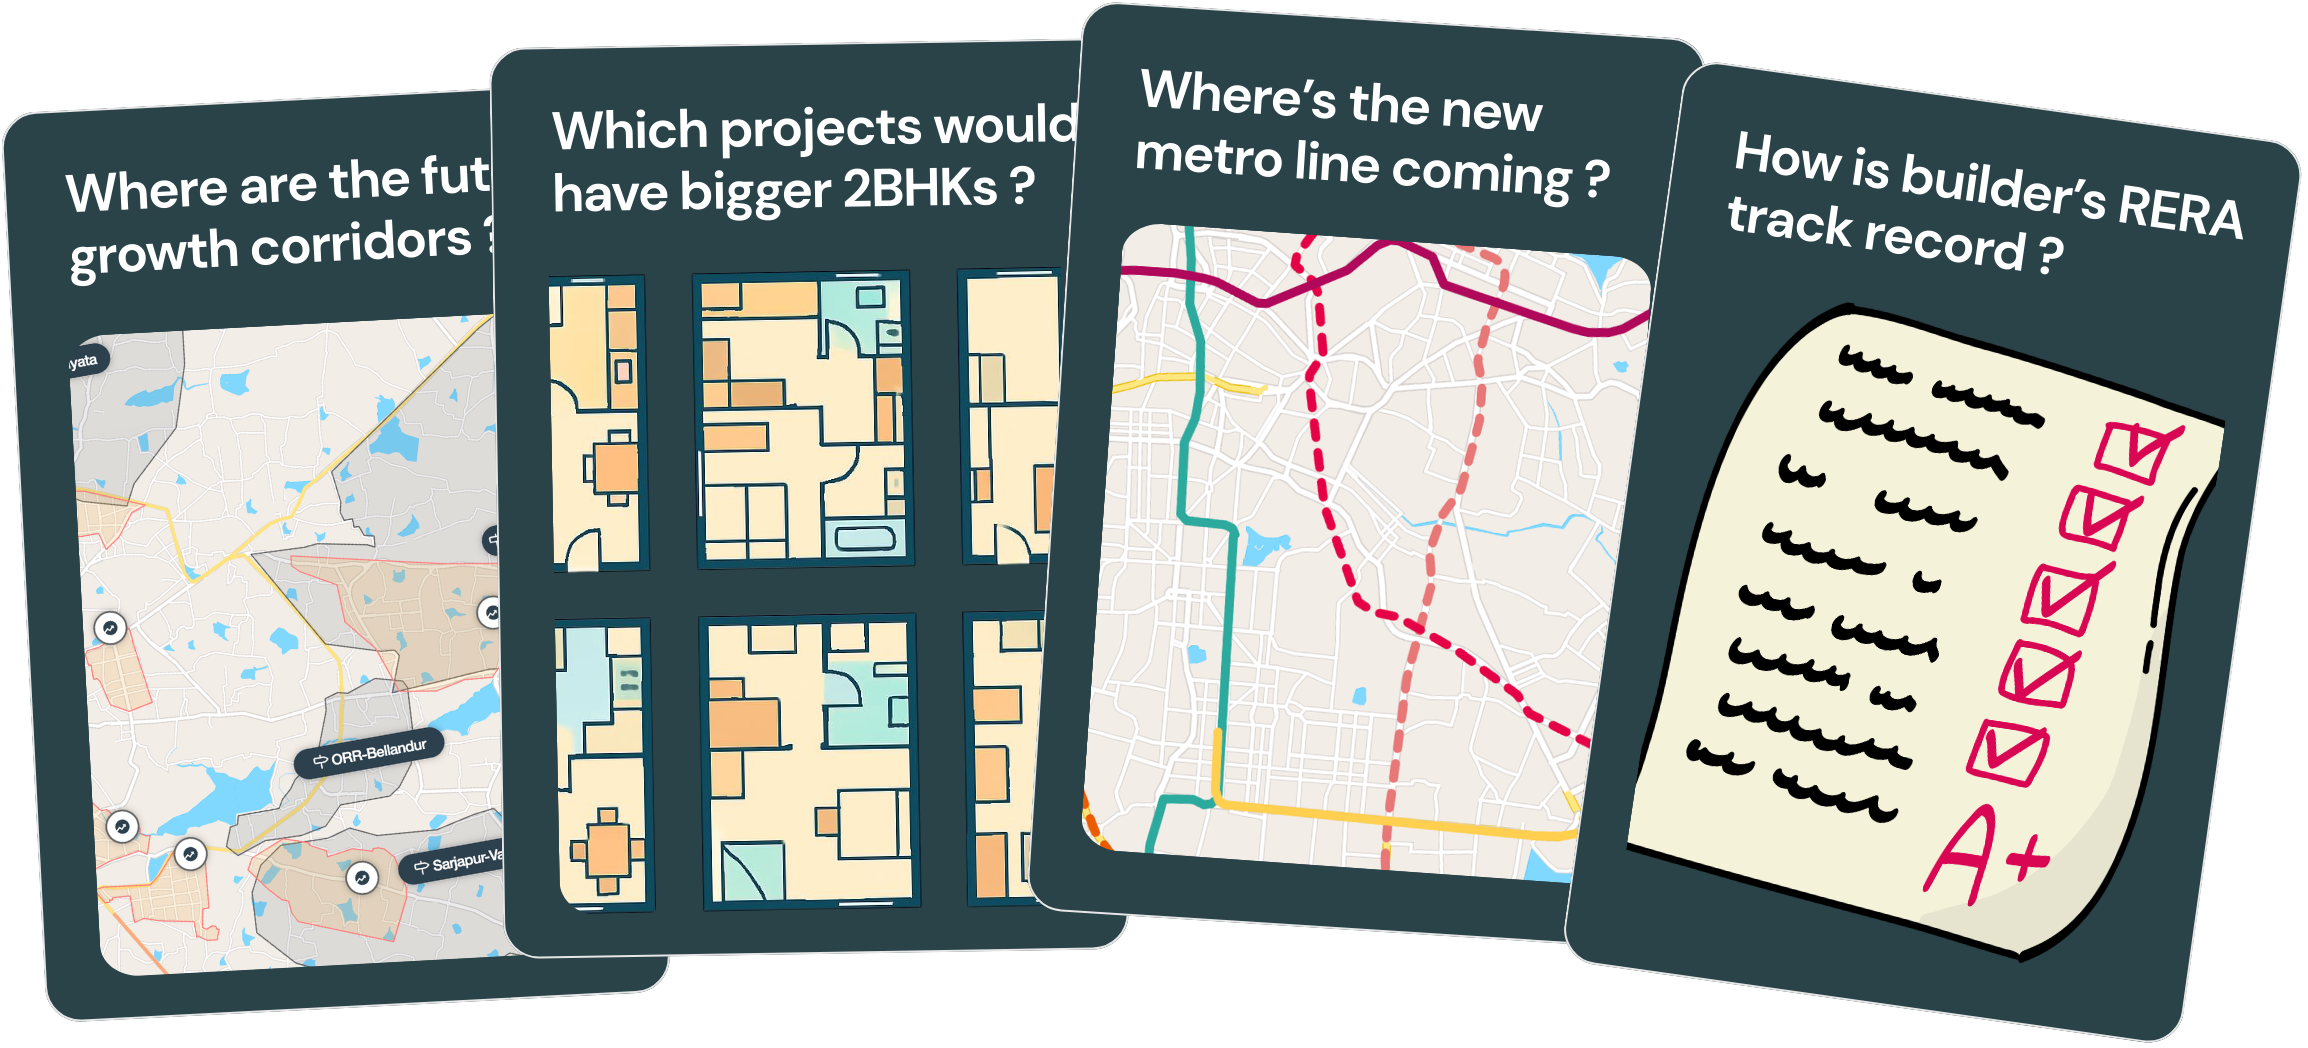
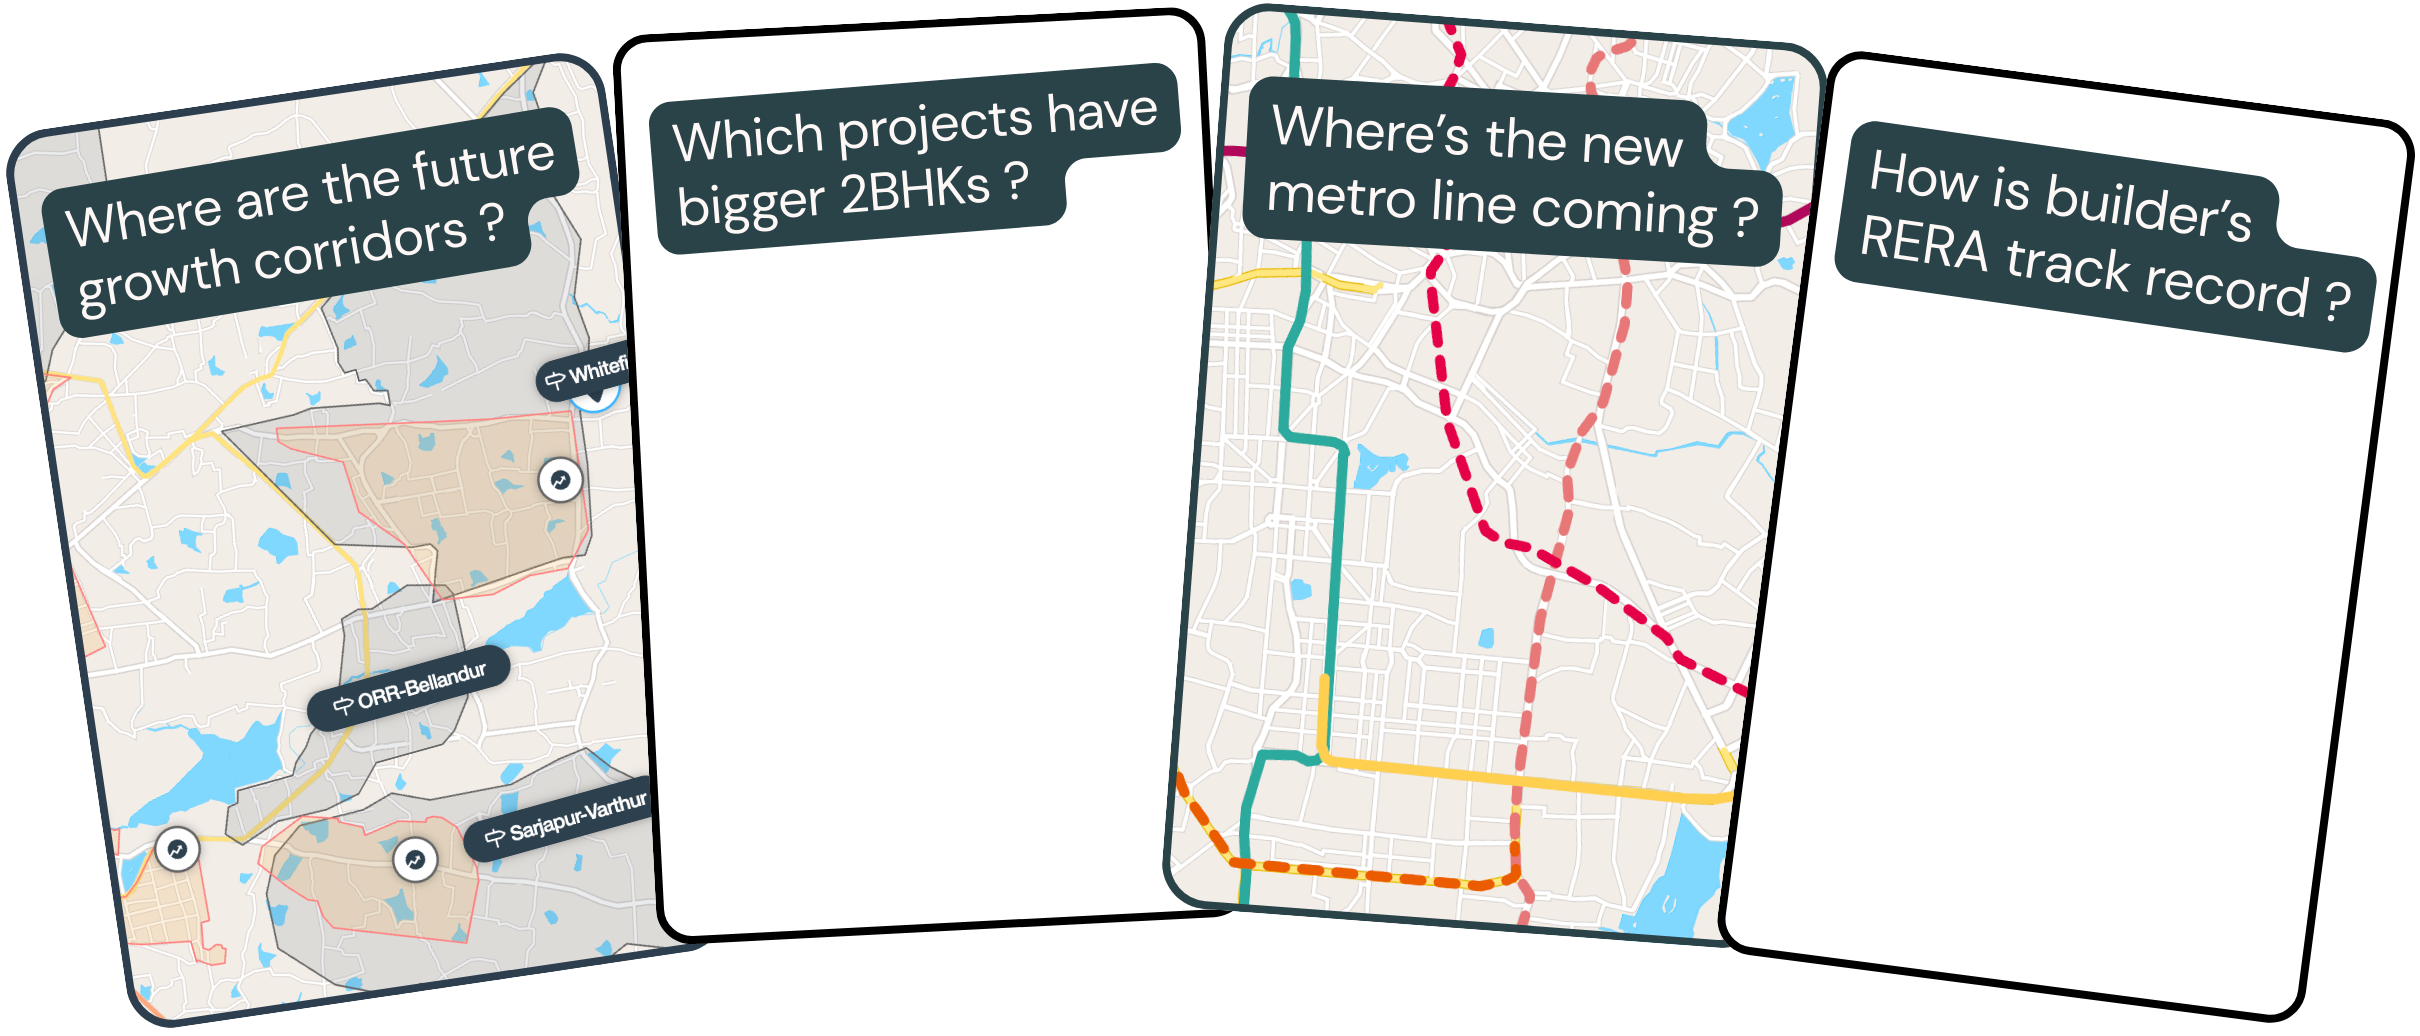
Revert "fixing search"
This reverts commit 28861f4bf75e72a91396bbd223cae824de49901f.

diff --git a/src/components/common/new-report-request-form.tsx b/src/components/common/new-report-request-form.tsx
@@ -168,17 +168,18 @@ export const NewReportRequestForm = () => {
       return [];
     }
 
-    const filteredProjects = searchQuery ? searchResults : projects.sort((projectA, projectB) =>
+    const filteredProjects = searchQuery ? searchResults : projects;
+
+    return (filteredProjects || [])
+      .filter(
+        (p) => !selectedProjects.some((s) => s.projectName === p.projectName)
+      )
+      .sort((projectA, projectB) =>
         projectA.lvnzyProjectId && projectB.lvnzyProjectId
           ? 0
           : projectA.lvnzyProjectId
           ? -1
           : 1
-      );
-
-    return (filteredProjects || [])
-      .filter(
-        (p) => !selectedProjects.some((s) => s.projectName === p.projectName)
       )
       .slice(0, 100)
       .map((project) => ({
